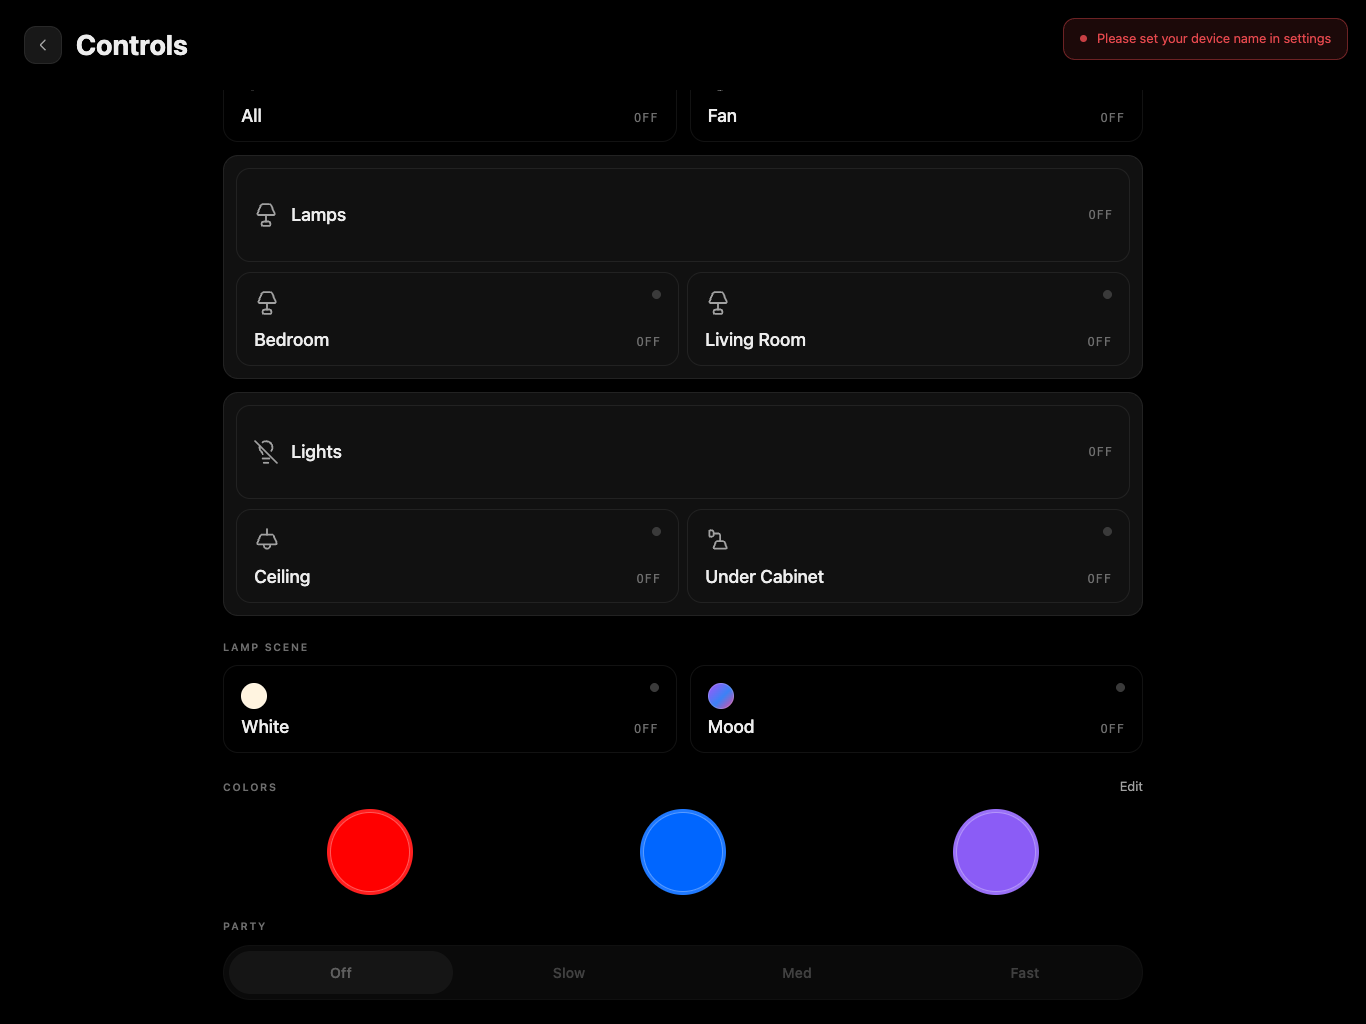
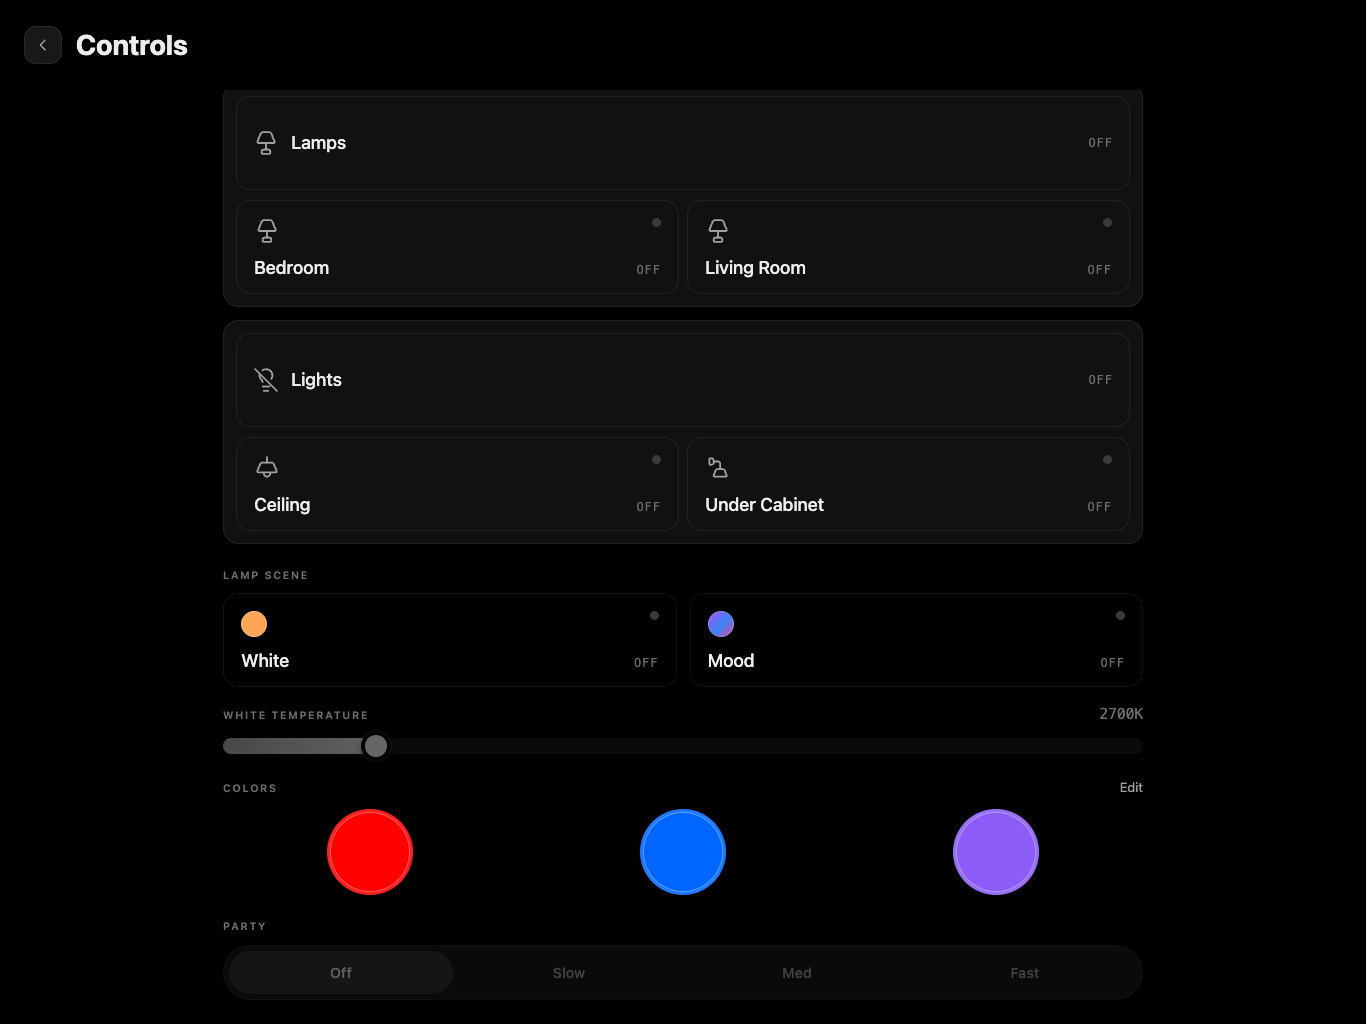
Declare uqr at the root workspace (feature folders resolve there, like react-colorful); blend the White swatch to a warm cream; document the reflowed board

diff --git a/features/ctrl/web/ExpandedControlsView.tsx b/features/ctrl/web/ExpandedControlsView.tsx
@@ -23,7 +23,7 @@ import type {
   SavedLampColorView,
 } from "./ControlsTileView";
 import { CONTROLS_CELL_H, CONTROLS_GRID_HEIGHT, ControlsGridView } from "./ControlsTileView";
-import { kelvinToHex } from "./kelvin";
+import { whiteSwatchHex } from "./kelvin";
 import type { PartySelection } from "./views/PartySpeedControls";
 import { PartyControl, PartySpeed } from "./views/PartySpeedControls";
 
@@ -41,7 +41,7 @@ export type LampScene = (typeof LampScene)[keyof typeof LampScene];
 // wiring + tests rely on; matches the API's setLampScene input union. `swatch`
 // is a CSS color previewing the scene at a glance , Mood is a multi-hue gradient
 // because the service paints each lamp a different color. White's swatch is
-// computed from the live color temperature (kelvinToHex) so it warms and cools
+// computed from the live color temperature (whiteSwatchHex) so it warms and cools
 // with the slider below instead of showing one fixed tone.
 const SCENES: { scene: LampScene; label: string; swatch: string | null }[] = [
   { scene: LampScene.White, label: "White", swatch: null },
@@ -230,7 +230,7 @@ export function ExpandedControlsView({
               <ControlTap
                 key={scene}
                 icon="bulb"
-                swatch={swatch ?? kelvinToHex(whiteKelvin)}
+                swatch={swatch ?? whiteSwatchHex(whiteKelvin)}
                 label={label}
                 on={activeScene === scene}
                 onToggle={() => onScene(scene)}

diff --git a/features/ctrl/web/__tests__/kelvin.test.ts b/features/ctrl/web/__tests__/kelvin.test.ts
@@ -1,5 +1,5 @@
 import { describe, expect, it } from "vitest";
-import { kelvinToHex } from "../kelvin";
+import { kelvinToHex, whiteSwatchHex } from "../kelvin";
 
 function rgb(hex: string): [number, number, number] {
   const v = Number.parseInt(hex.slice(1), 16);
@@ -24,5 +24,14 @@ describe("kelvinToHex", () => {
   it("gets bluer monotonically as the temperature rises", () => {
     const blues = [2000, 2700, 3500, 4500, 5500, 6500].map((k) => rgb(kelvinToHex(k))[2]);
     for (let i = 1; i < blues.length; i++) expect(blues[i]).toBeGreaterThanOrEqual(blues[i - 1]);
+  });
+
+  it("whiteSwatchHex is a lighter, less saturated version of the same tint", () => {
+    const raw = rgb(kelvinToHex(2700));
+    const swatch = rgb(whiteSwatchHex(2700));
+    expect(swatch[0]).toBe(255);
+    expect(swatch[2]).toBeGreaterThan(raw[2]);
+    expect(swatch[1]).toBeGreaterThan(raw[1]);
+    expect(swatch[2]).toBeLessThan(swatch[1]);
   });
 });

diff --git a/features/ctrl/web/kelvin.ts b/features/ctrl/web/kelvin.ts
@@ -28,3 +28,15 @@ export function kelvinToHex(kelvin: number): string {
 
   return `#${toHex(red)}${toHex(green)}${toHex(blue)}`;
 }
+
+/**
+ * The White scene swatch for a temperature: kelvinToHex blended halfway to
+ * white. The raw black-body fit for 2700K is a saturated orange, but a 2700K
+ * bulb READS as a warm cream, and the swatch should look like the lamp, not
+ * the physics. 6500K stays near-white either way.
+ */
+export function whiteSwatchHex(kelvin: number): string {
+  const v = Number.parseInt(kelvinToHex(kelvin).slice(1), 16);
+  const mix = (c: number) => toHex(c + (255 - c) * 0.5);
+  return `#${mix((v >> 16) & 255)}${mix((v >> 8) & 255)}${mix(v & 255)}`;
+}

diff --git a/CODEBASE_OVERVIEW.md b/CODEBASE_OVERVIEW.md
@@ -98,14 +98,21 @@ grid). `PanelFrame.tsx` enforces this on a desktop browser (framing the app
 like a device instead of stretching it) and is a no-op passthrough on native
 and on `MobileBoard`.
 
-- **Tiles**: 8 total (`tiles.gen.ts`) — `tile_ctrl` (Controls, the sole
+- **Tiles**: 9 total (`tiles.gen.ts`) — `tile_ctrl` (Controls, the sole
   `home: true` tile), `tile_clock` (Clock,
   face-only), `tile_ac` (Climate · A/C, face-only), `tile_weath` /
   `tile_hourly` (Weather, face-only), `tile_booth` (Photo Booth, `private`),
-  `tile_wakes` (Activity, `sensitive`), `tile_sound` (Sound System). A Tile
-  needs zero or one Tile View, not exactly one — a face-only tile (clock, A/C,
-  weather) has no detail surface at all.
-- **Board position**: centered once on the eight tile bounds. The world is
+  `tile_wakes` (Activity, `sensitive`), `tile_sound` (Sound System),
+  `tile_wifi` (Wi-Fi, face-only: the guest-network join QR drawn straight on
+  the tile, fed by the api's `WIFI_GUEST_SSID`/`WIFI_GUEST_PASSWORD`
+  secrets). A Tile needs zero or one Tile View, not exactly one — a face-only
+  tile (clock, A/C, weather, Wi-Fi) has no detail surface at all.
+- **Board layout** (`features/*/manifest.ts` world coords, 12x9 cells): the
+  top two-thirds are Controls (5x6, left) · Photo Booth / Activity / Wi-Fi
+  (2x2 stacked, middle) · Sound System (5x3) over the Clock (5x3) (right);
+  Controls' bottom edge and Sound's right edge are flush with the Clock. The
+  bottom row is Next 12 Hours · Weather Now · Climate · A/C (4x3 each).
+- **Board position**: centered once on the nine tile bounds. The world is
   offset inside a clipped stage, which never scrolls or recenters on tile
   activation.
 - **Idle dim**: hardcoded on, 60000ms timeout, dim level 30
